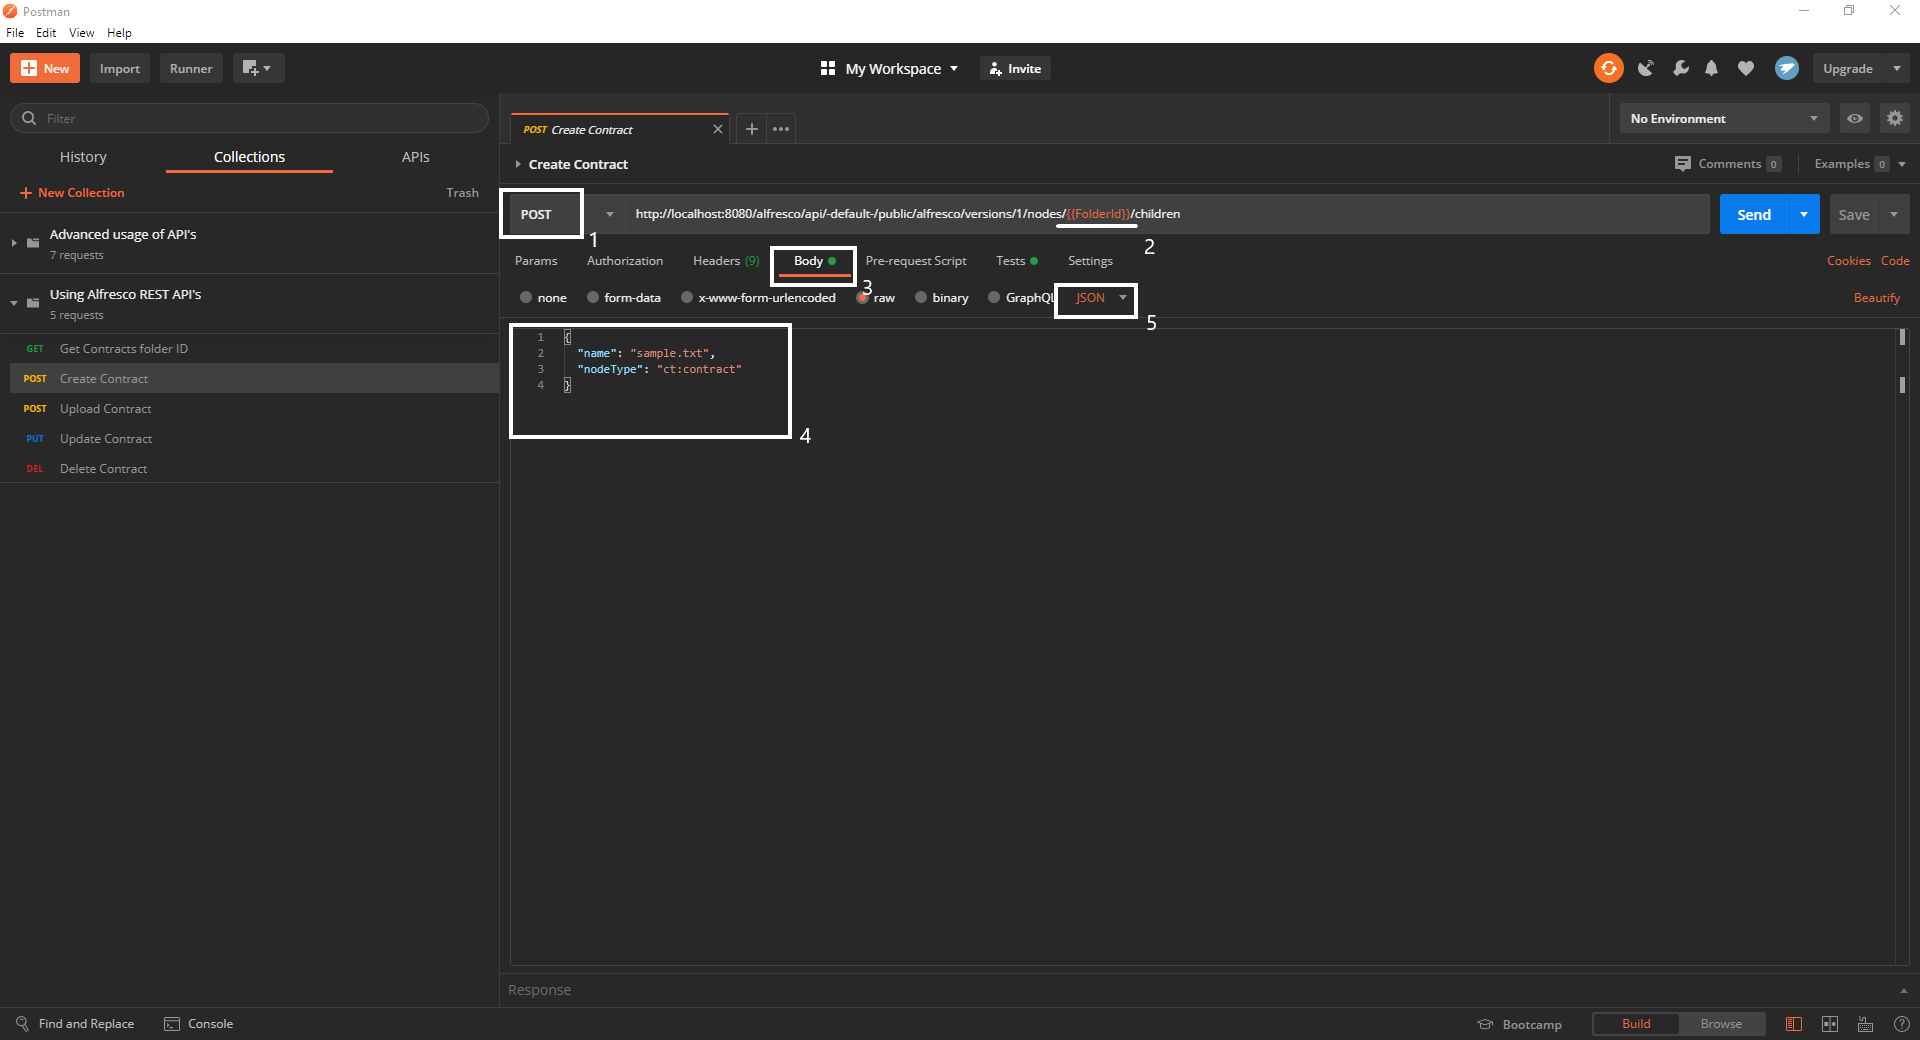
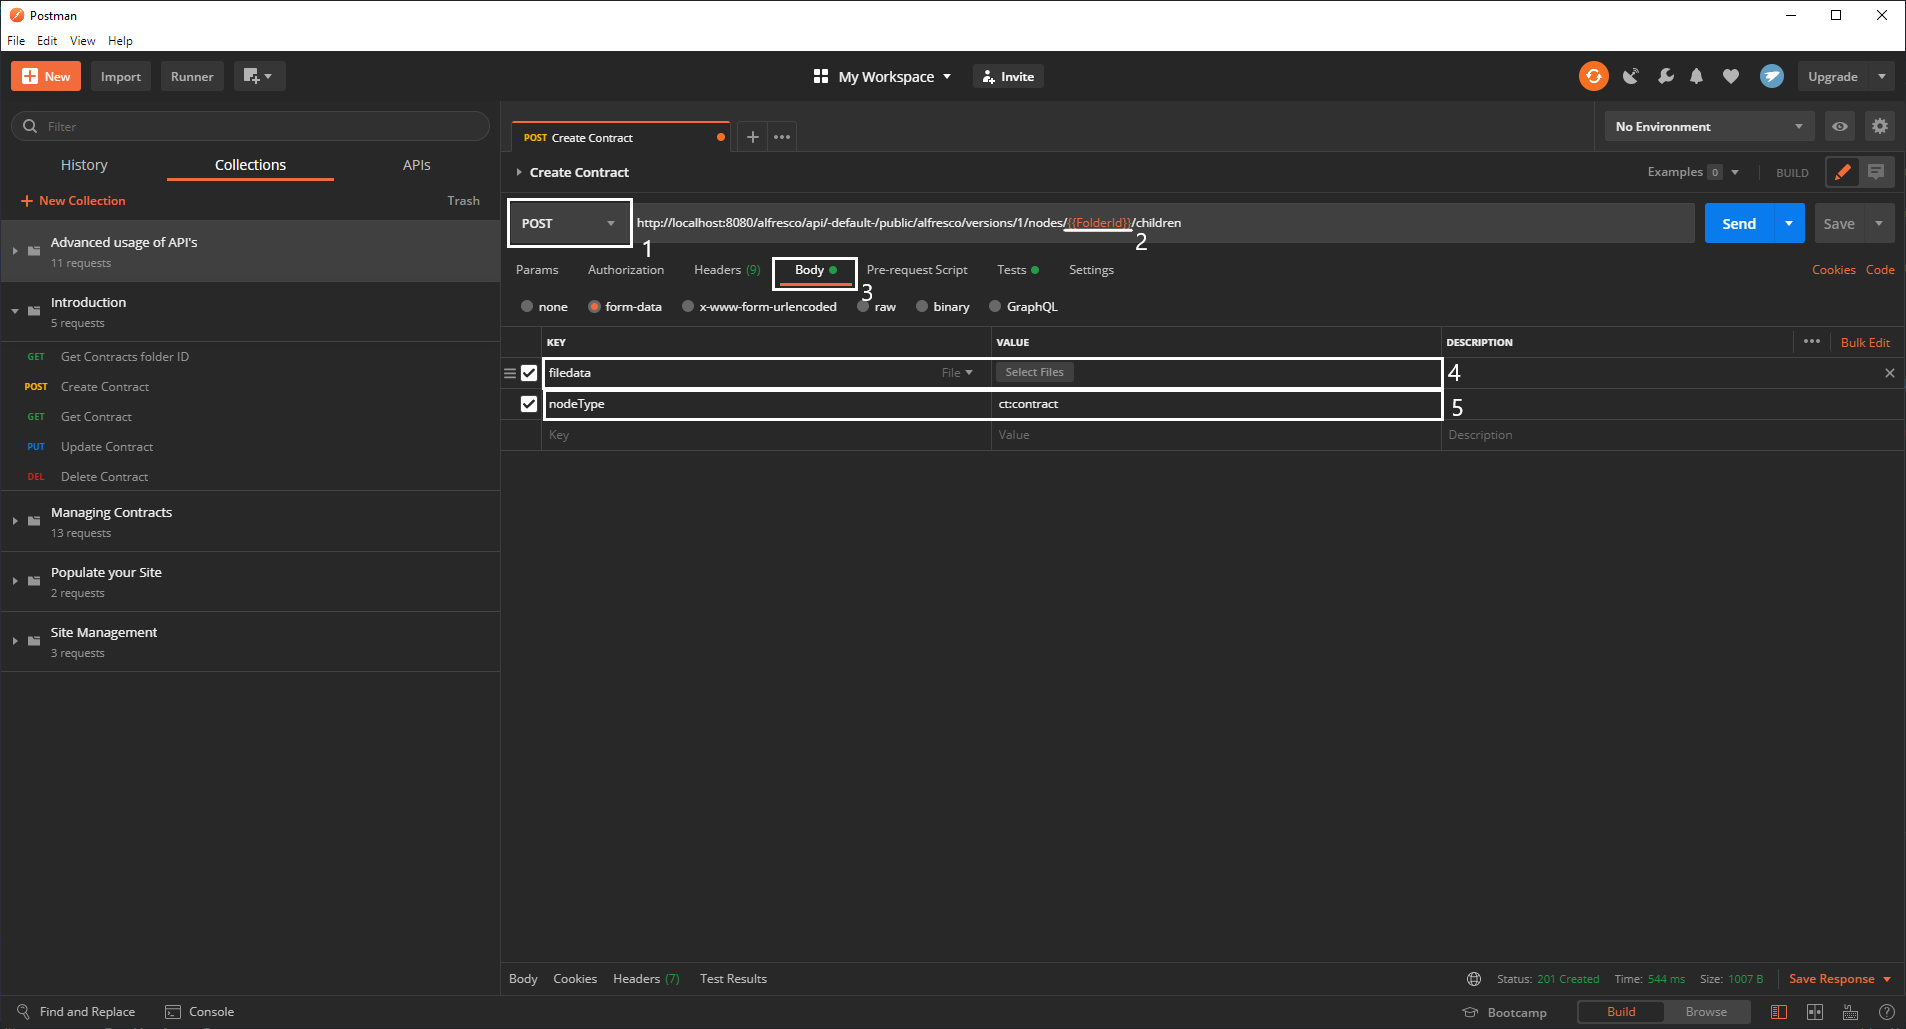
work around added

diff --git a/docs/api-tutorial/introduction.md b/docs/api-tutorial/introduction.md
@@ -31,6 +31,7 @@ While this introduction will explain all the parts of these requests, we encoura
 
 
 ## What is a REST API
+
 You can picture a REST API as the middleman between the client software - in this case Postman - and the provider - here ACS.
 It takes the request of the client and translates it so the provider knows what to do, then relays the answer of the provider back to the client.
 
@@ -43,6 +44,7 @@ So if you wanted to GET every child of a folder, you’d call: `/nodes/{folderId
 ACS provides REST APIs for a lot of operations, if you want to get an overview and familiarize yourself with the URL structure click [here](https://api-explorer.alfresco.com/api-explorer/#/).
 
 ## Requests
+
 There are quite a few request types. In this tutorial we will be focusing on four:
 - GET
 - POST
@@ -64,6 +66,7 @@ Note that the Postman collection uses the Administrator credentials to execute a
 
 
 ## Creating a contract
+
 If you finished our [Contract Management](https://www.alfresco.com/abn/tutorials/contract-management/) series you will already have created a site called “myInc” and a “Contracts” folder within it.  
 Now let’s tell ACS to create another contract inside it.  
 
@@ -104,7 +107,8 @@ Note that in the example below the password isn't changed, both old and new are 
 After retrieving and saving the ID of the Contracts folder you can now create a new Contract within it.  
 For that use the second request of the collection.  
 
-Here Postman will send a POST(1) request to the `/nodes` API using the `folderId` variable(2) you created in the last request. In the request body(3) there will only be a name and the type you want your file to have `ct:contract`(4). Note that the body is written in JSON(5).
+Here Postman will send a POST(1) request to the `/nodes` API using the `folderId` variable(2) you created in the last request. In the request body(3) there will only be the file you want to upload(4) as well as the type it will have: `ct:contract`(5).  
+Just click `Choose File` and select a document from your system.
 
 If you wanted to create a more generic document you could use `cm:content` as th type or `cm:folder` to create a folder.  
 In the test section we will again create a variable for the contractId, so we can use it in the next chapters.
@@ -123,18 +127,11 @@ If you try to use a non existing prefix you will also get a 400 error code, this
 
 ![invalidPrefix](../images/api-tutorial/invalidPrefix.png)
 
-If you already have a contract you want to upload you can use the same API, only this time instead of sending a JSON body you will attach the existing contract to your request by using the `form-data` body(1) (Request 3).    
-Select the file you want to upload as value for the `filedata` key(2).
-
-![uploadContract](../images/api-tutorial/uploadContract.png)
-
 Now let’s check if everything worked as it should have! Log into Share as Administrator and and visit your site “myInc” then navigate to the “New” folder (Document Library -> Contracts -> New).  
 
 If everything has gone to plan there should be the contract you just created or uploaded.
 
-![newContract](../images/api-tutorial/newContract.png)
-
-If you want to view your contract at any point use the fourth request which will return the node belonging to the `{contractId}` variable.  
+If you want to view your contract at any point use the third request which will return the node belonging to the `{contractId}` variable.  
 The response body will look exactly like the one for creating a contract with the notable difference that it contains an already existing one instead of the node you just created.
 
 
